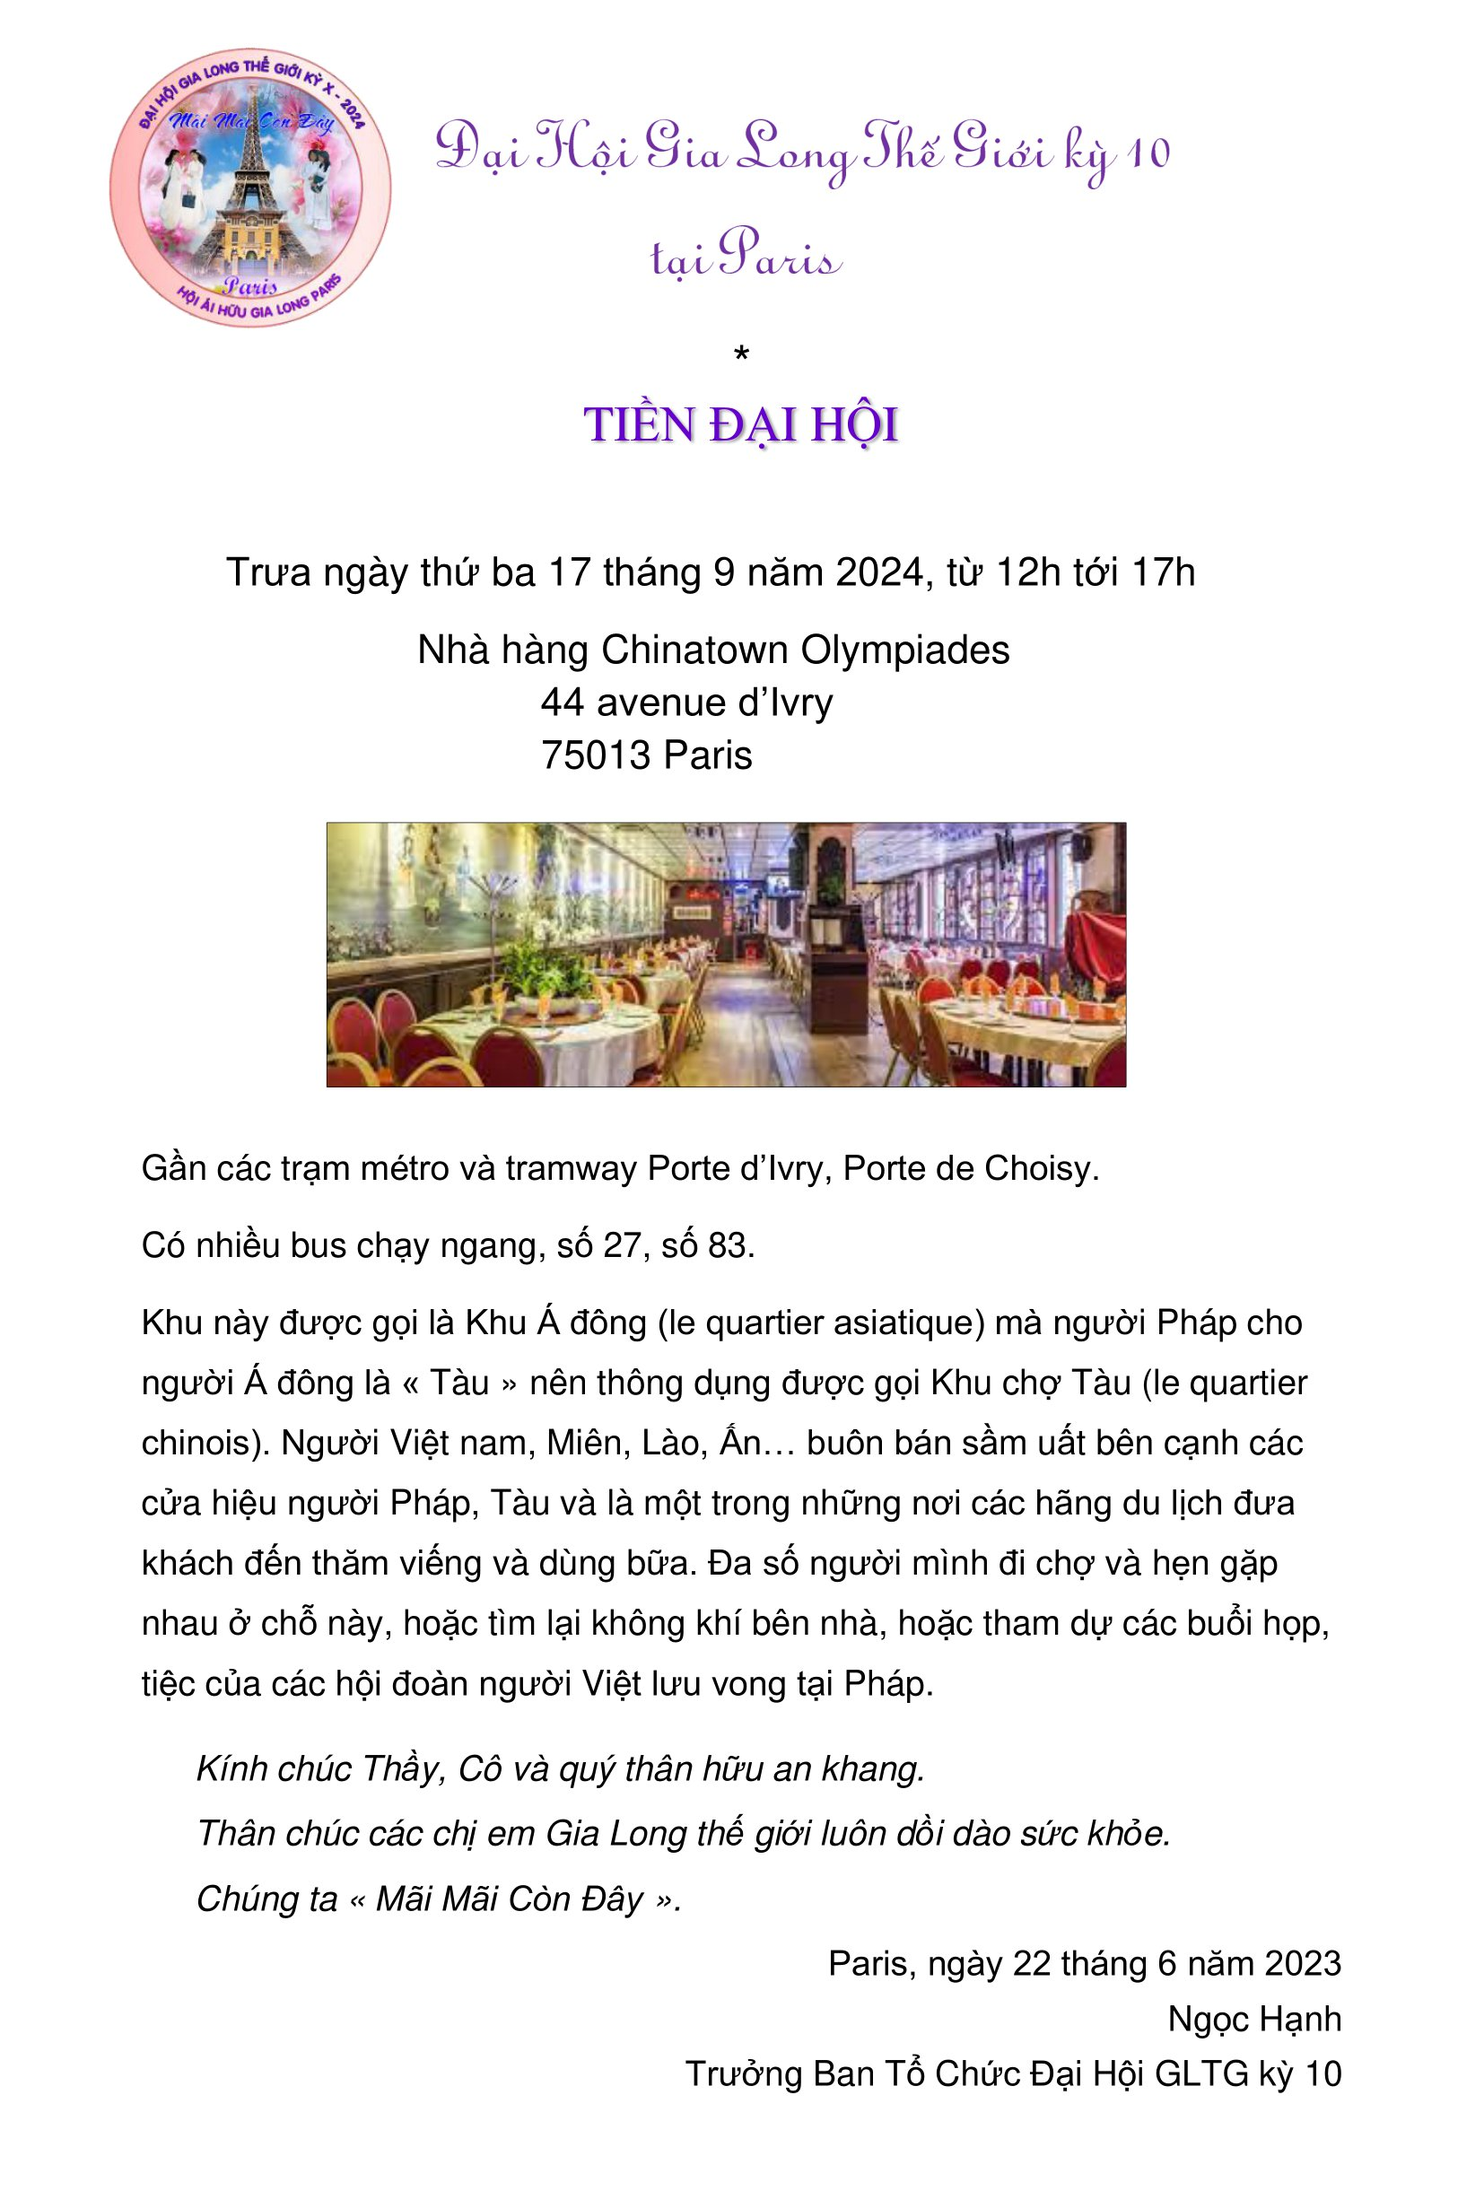
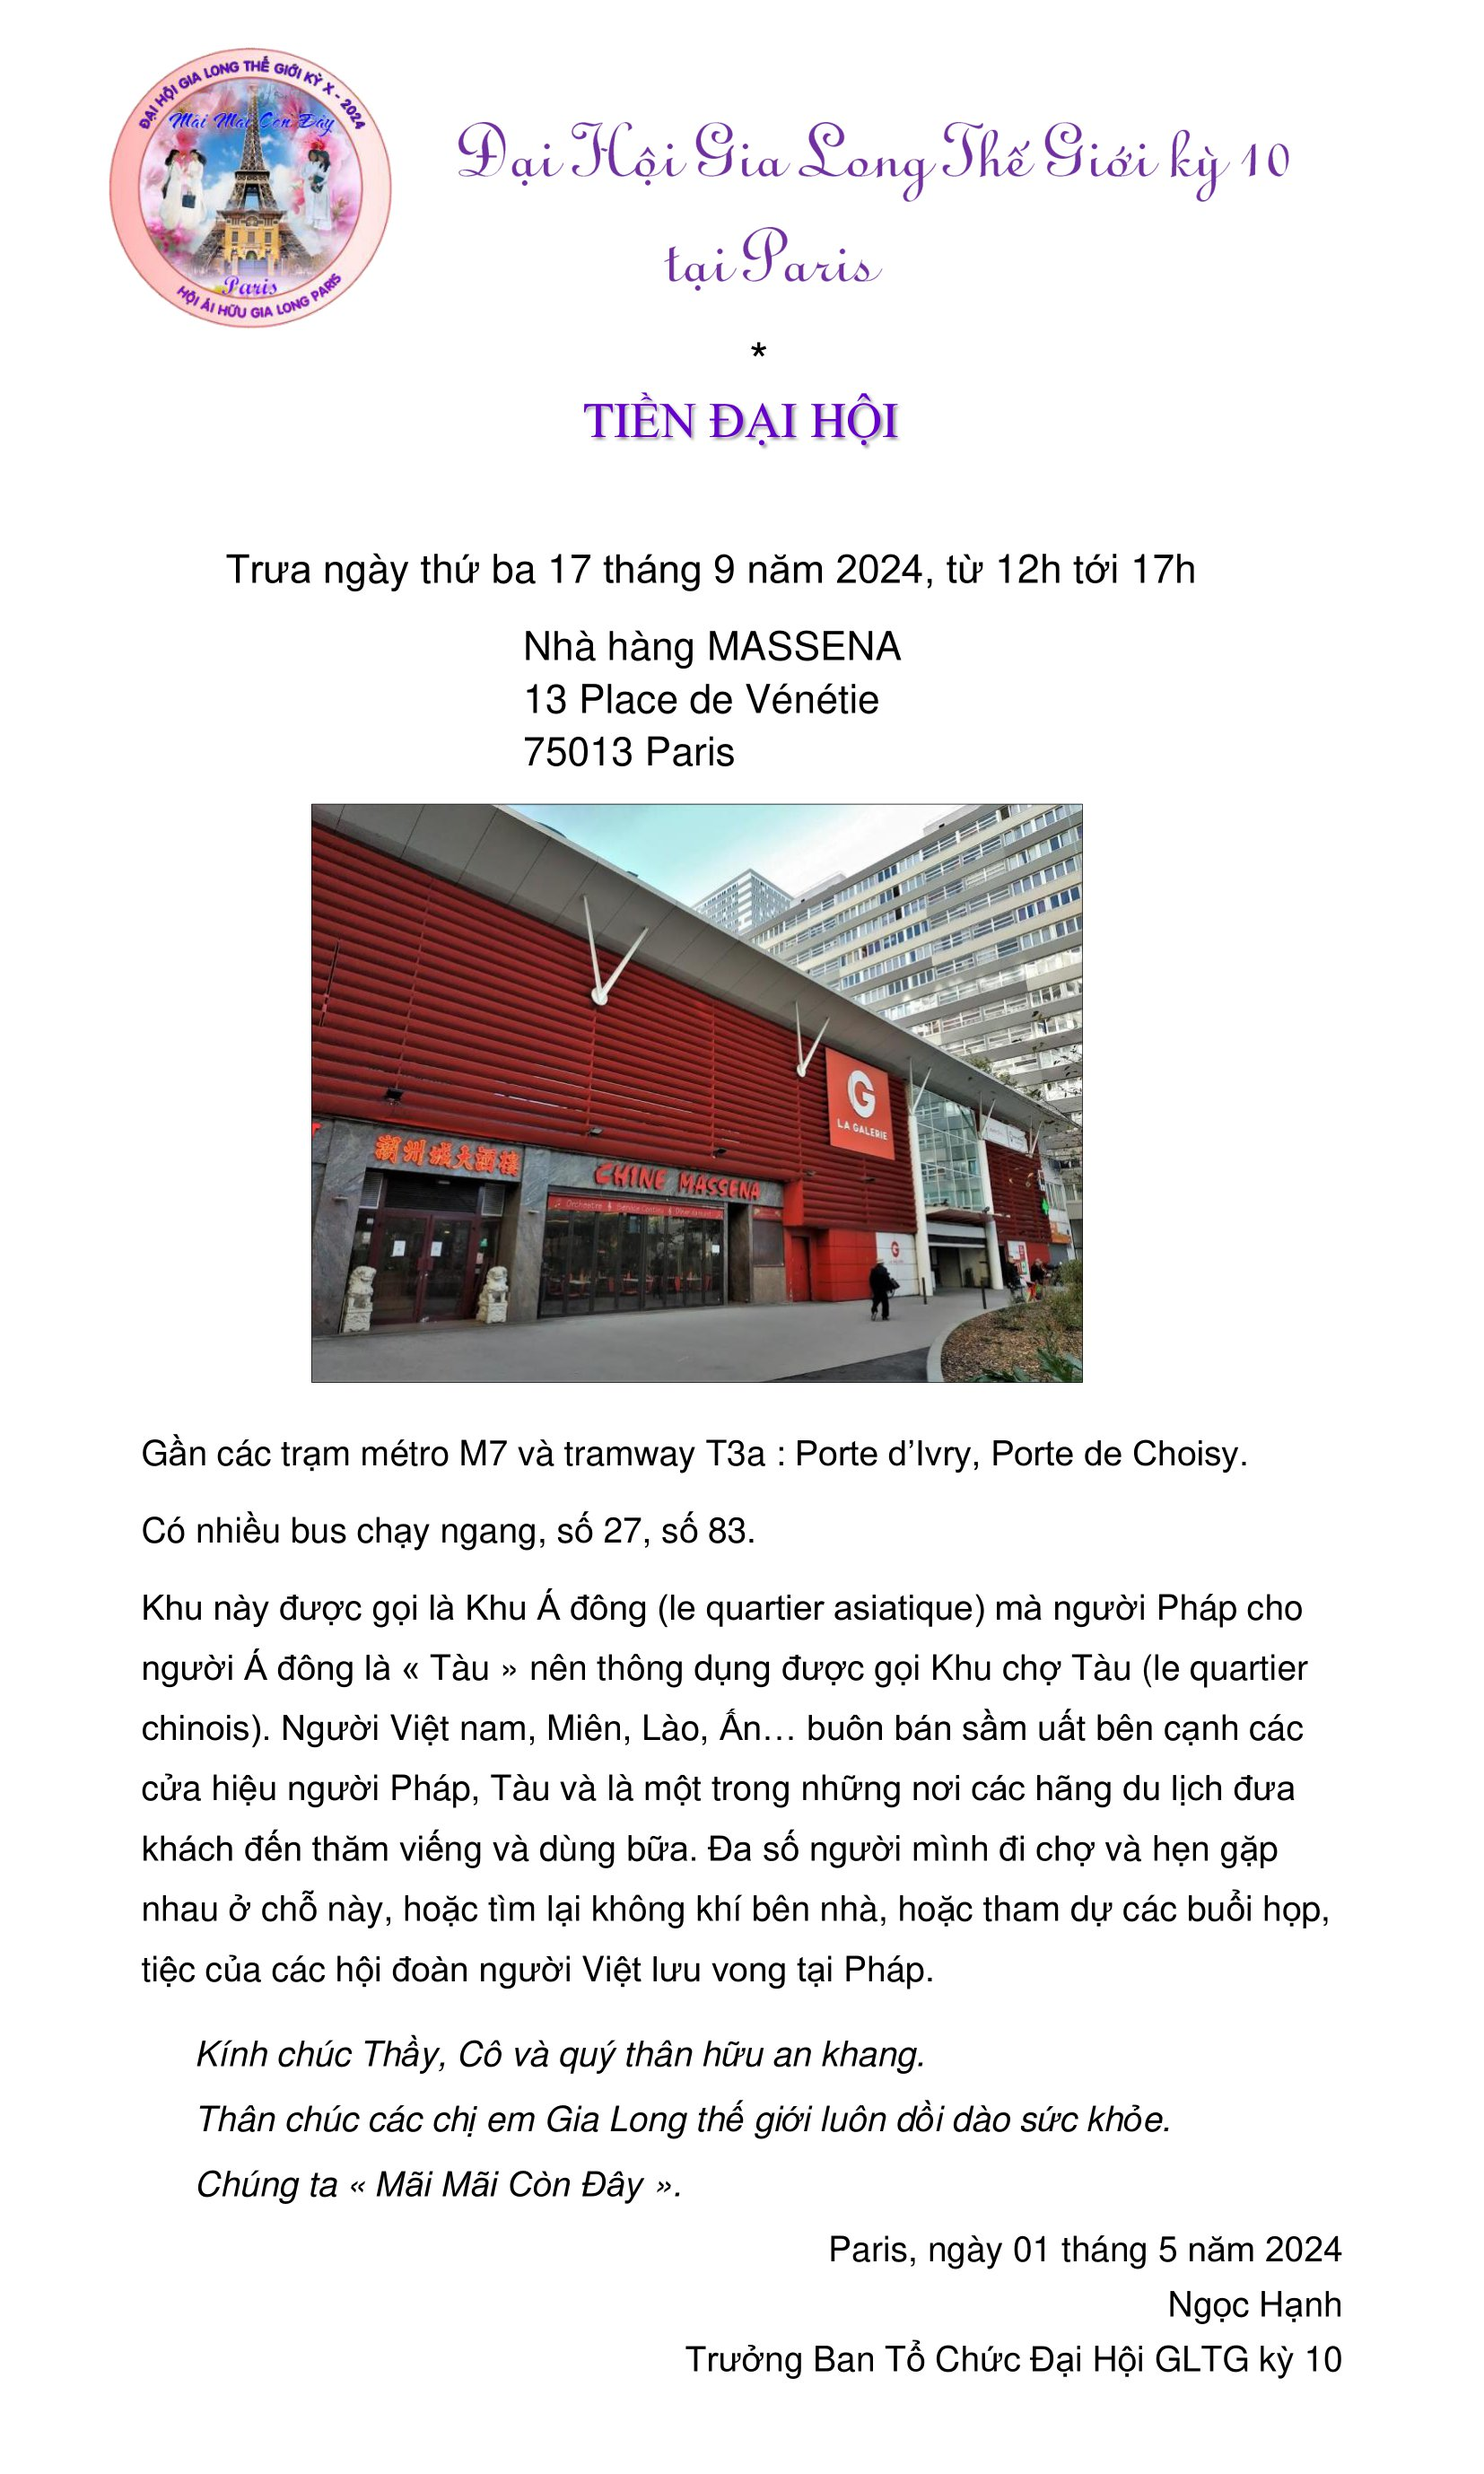
03-05-24
03-05-24

Changed region(s): [[0.0925, 0.1556, 0.925, 0.9648], [0.0617, 0.0, 0.2775, 0.1556], [0.3083, 0.0311, 0.8325, 0.1245]]

diff --git a/ThongTin.html b/ThongTin.html
@@ -124,11 +124,13 @@
 			<div class="col-sm-3">
 				<div class="menu-tintuc" style="width: 110%;margin-left: 0%;margin-right: 0%;border: 3px solid #e0bdfe;">
              <p><div align="center" style="color: blue; font-size: 19px; font-family: 'Times New Roman', sans-serif;">Thông Tin</div></p>
+             <a href="#thongbao" onclick="SelThongTin(15)">&#10048 Thông báo BTC tháng 05/2024 </a>
+             <a href="TiepTan/ThuNgoTiepTan.html">&#10048 Thông báo Ban Tiếp Tân 05/2024</a>
+             <a href="Van-nghe/ThuNgoVanNghe.html">&#10048 Thông báo Ban Văn Nghệ 05/2024</a>
+             <a href="Dai-hoi10/TienDaiHoi.html">&#10048 Địa chỉ Nhà hàng Tiền Đai Hôi</a>
              <a href="Du-lich/DuLichDuongBo.html">&#10048 Ghi danh LandTour 04/2024</a>
              <a href="#thongbao" onclick="SelThongTin(14)">&#10048 Thông báo BTC tháng 04/2024 </a>
-             <a href="TiepTan/ThuNgoTiepTan.html">&#10048 Thông báo Ban Tiếp Tân 04/2024</a>
              <a href="#thongbao" onclick="SelThongTin(12)">&#10048 Thông báo BTC tháng 03/2024 </a>
-             <a href="Van-nghe/ThuNgoVanNghe.html">&#10048 Thông báo Ban Văn Nghệ 03/2024</a>
              <a href="#thongbao" onclick="SelThongTin(13)">&#10048 Cách dùng muỗng nĩa (tiệc Pháp) </a>
              <a href="GhiDanh/ThuNgoGhiDanh.html">&#10048 Thông tin hết hạn ghi danh </a>
              <a href="Bao-chi/ThuNgoBaoChi.html">&#10048 Thông báo Ban Báo Chí 02/24 </a>
@@ -151,7 +153,7 @@
 			</div>
       <div class="col-sm-9" style="float:right;padding-right: 0px;">
 				<div class="jumbotron3" >
-          <img src="images/ThongBao_04-2024.jpg" width="100%" id="imgtt">
+          <img src="images/ThongBao_05-2024.jpg" width="100%" id="imgtt">
 				</div>
 			</div>
 		</div>

diff --git a/index.html b/index.html
@@ -188,11 +188,12 @@
             <!--div style="Text-align:Center">
               <img src="images/LuuY.jpg" alt="" width="100%"><br><br>
             </div-->
+            <a href="#thongbao" onclick="SelThongTin(15)">&#10048 Thông báo BTC tháng 05/2024 </a>
+            <a href="TiepTan/ThuNgoTiepTan.html">&#10048 Thông báo Ban Tiếp Tân 05/2024</a>
+            <a href="Van-nghe/ThuNgoVanNghe.html">&#10048 Thông báo Ban Văn Nghệ 05/2024</a>
+            <a href="Dai-hoi10/TienDaiHoi.html">&#10048 Địa chỉ Nhà hàng Tiền Đai Hôi</a>
             <a href="Du-lich/DuLichDuongBo.html">&#10048 Ghi Danh LandTour 04/24</a>
-            <a href="#thongbao" onclick="SelThongTin(14)">&#10048 Thông báo BTC tháng 04/2024 </a>
-            <a href="TiepTan/ThuNgoTiepTan.html">&#10048 Thông báo Ban Tiếp Tân 04/2024</a>
             <a href="KhachSan/GhiDanhHotel.html">&#10048 Khách Sạn ECLA 03/2024</a>
-            <a href="Van-nghe/ThuNgoVanNghe.html">&#10048 Thông báo Ban Văn Nghệ 03/2024</a>
             <a href="GhiDanh/ThuNgoGhiDanh.html">&#10048 <FONT color=red><b>Thông tin hết hạn ghi danh</b></font> </a>
             <a href="Bao-chi/ThuNgoBaoChi.html">&#10048 Thông báo Ban Báo Chí 02/2024</a>
             <a href="HuongDan/HuongDanECLA.html">&#10048 Hướng dẫn đường từ phi trường</a>
@@ -202,7 +203,7 @@
         </div>
         <div class="col-sm-9" style="float:right;padding-right: 0px;">
           <div class="jumbotron3" >
-            <img src="images/ThongBao_04-2024.jpg" width="100%" id="imgtt">
+            <img src="images/ThongBao_05-2024.jpg" width="100%" id="imgtt">
           </div>
         </div>
       </div>

diff --git a/Van-nghe/ThuNgoVanNghe.html b/Van-nghe/ThuNgoVanNghe.html
@@ -124,6 +124,9 @@
     <div class="container">
       <div class="jumbotron">
         <div class="jumbotron1">
+            <img src="../Van-nghe/ThongTinVanNghe_05-24.jpg" alt="" class="btn-primary" width="98%">
+        </div>
+        <div class="jumbotron1">
             <br>
   				  <p class="paragraphe" align="center"><img src="../images/Logo_dhgltg2024.png" align="left" width="20%"> </p>
             <p class="paragraphe2" style="margin:0 0 0 33%;"><b>ĐẠI HỘI GIA LONG THẾ GIỚI KỲ X PARIS PHÁP</b><br><br>

diff --git a/TiepTan/ThuNgoTiepTan.html b/TiepTan/ThuNgoTiepTan.html
@@ -118,6 +118,9 @@
     <div class="container">
       <div class="jumbotron">
         <div class="jumbotron1">
+            <img src="../TiepTan/ThuNgoTiepTan_05-24.jpg" alt="" class="btn-primary" width="98%">
+        </div>
+        <div class="jumbotron1">
             <img src="../TiepTan/ThuNgoTiepTan_04-24.jpg" alt="" class="btn-primary" width="98%">
         </div>
       </div>

diff --git a/site.js b/site.js
@@ -146,6 +146,9 @@ function SelThongTin(indMenu) {
             case 14:
               myImg.src='images/ThongBao_04-2024.jpg';
               break;
+            case 15:
+              myImg.src='images/ThongBao_05-2024.jpg';
+              break;
 
         }
     }
